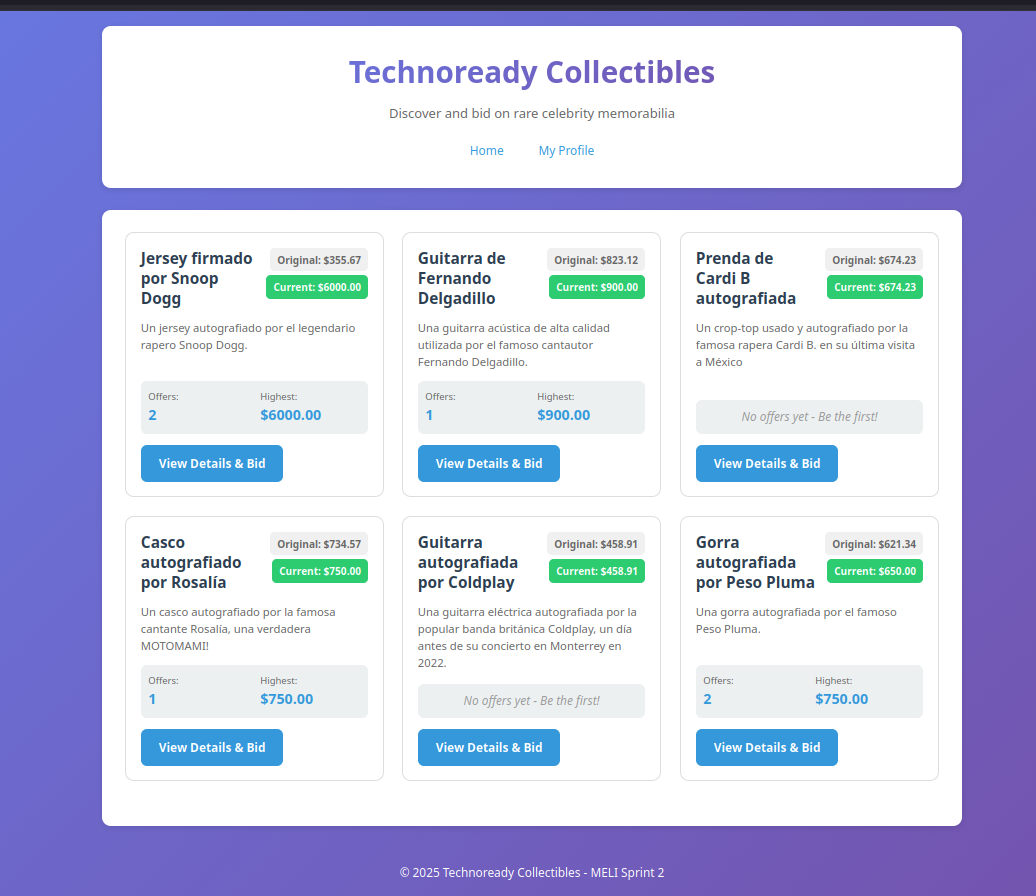
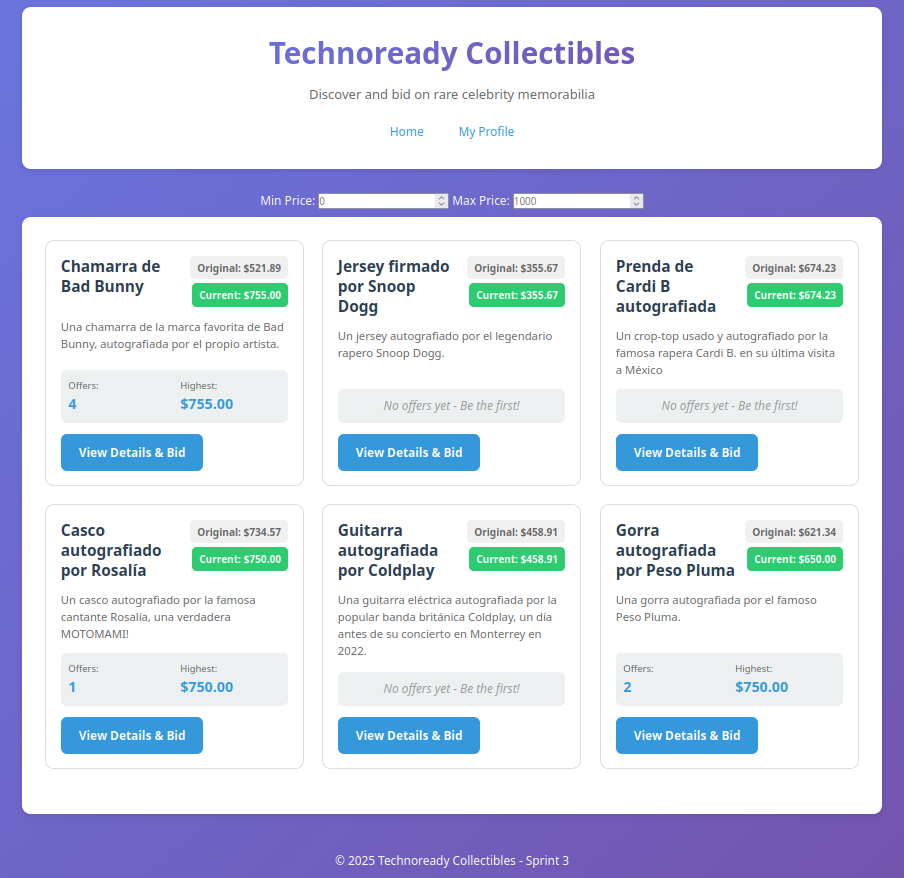
feat: NEW RELEASE 1.4.0

diff --git a/README.md b/README.md
@@ -24,13 +24,12 @@
 
 ## Features
 
-### Release 1.3.0 (Current)
+### Release 1.4.0 (Current)
 
 #### New in this Release
-- Creating views Mustache to connect with the backend.
-- Creating a js script to communicate with each endpoint.
-- Adding a new WebViewController and WebRoutes to manage the views.
-- Adding some styles with main.css to make the views prettier.
+- **Web Sockets**: Implementing web sockets to have real-time communication between the views and the backend.
+- **Filtering**: Adding price filtering (Max and Min).
+- **Offers status**: Now the offers status updates automatically.
 
 #### Core Features (from v1.2.0)
 - **RESTful API** - Complete CRUD operations for users, items, and offers
@@ -38,6 +37,10 @@
 - **Connection Pooling** - HikariCP for high-performance database connections
 - **Environment Configuration** - Multi-environment support via `.env` files
 - **JSON Serialization** - Gson with custom LocalDateTime and BigDecimal adapters
+- Creating views Mustache to connect with the backend.
+- Creating a js script to communicate with each endpoint.
+- Adding a new WebViewController and WebRoutes to manage the views.
+- Adding some styles with main.css to make the views prettier.
 
 #### Architecture Features
 - **SOLID Principles** - Clean architecture with separation of concerns

diff --git a/docs/CHANGELOG.md b/docs/CHANGELOG.md
@@ -5,6 +5,16 @@ All notable changes to this project will be documented in this file.
 The format is based on [Keep a Changelog](https://keepachangelog.com/en/1.0.0/),
 and this project adheres to [Semantic Versioning](https://semver.org/spec/v2.0.0.html).
 
+## [1.4.0] - 2025-11-07
+
+### Added
+- **Web Sockets**: Implementing web sockets to have real-time communication between the views and the backend.
+- **Filtering**: Adding price filtering (Max and Min).
+- **Offers status**: Now the offers status updates automatically.
+
+### Notes
+- This version introduces real-time communication using web sockets, now the views updates automatically.
+
 ## [1.3.0] — 2025-11-03
 
 ### Added
